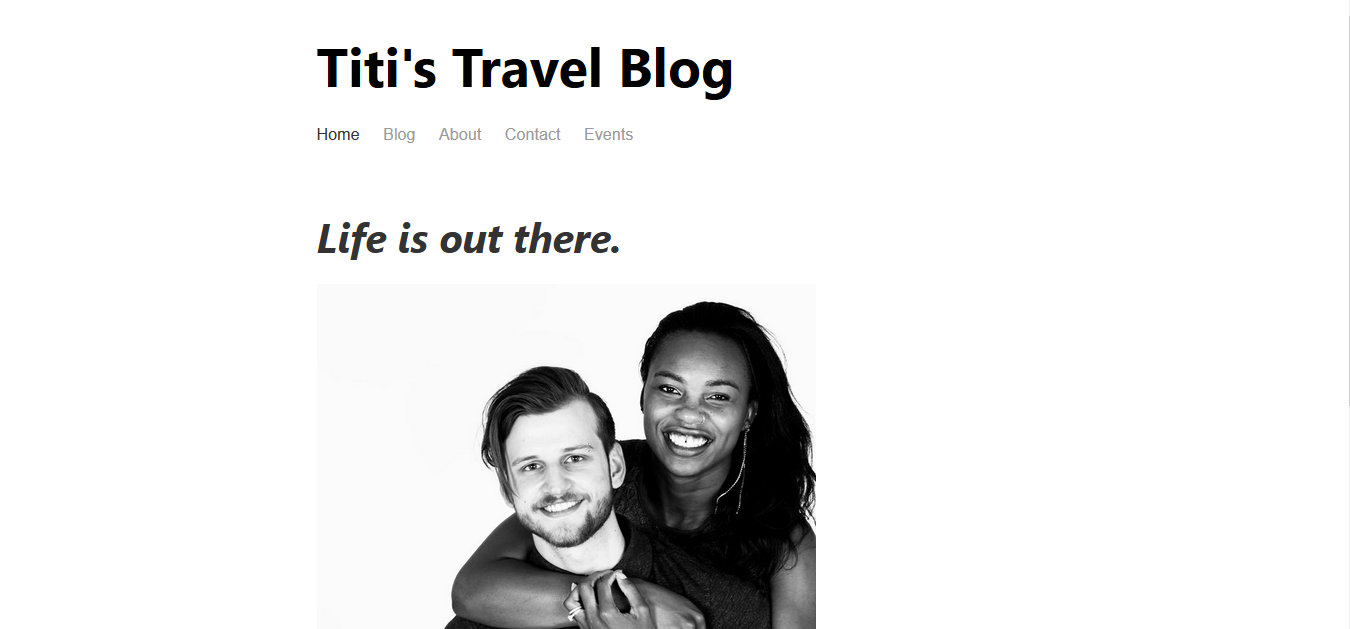
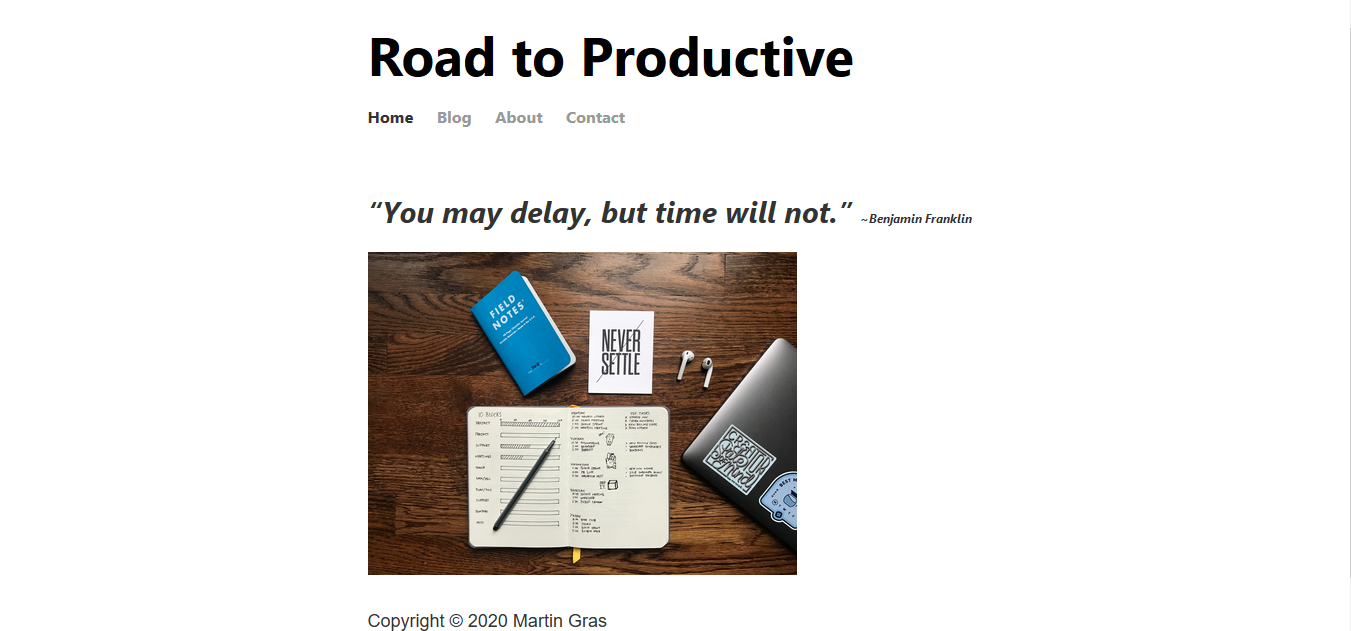
titi blog changed to road to productive blog

diff --git a/index.html b/index.html
@@ -147,7 +147,7 @@
             <div id="project1" class="card project-container hidden">
               <a href="https://tititravelblog.netlify.com/" target="_blank"><img src="./resources/images/titiblog.PNG" class="card-img-top" alt=""></a>
             <div class="card-body">              
-              <h2 class="card-title">Titi's Travel Blog</h2>
+              <h2 class="card-title">Road To Productive Blog</h2>
               <p class="card-text text-muted project-text">REACT & GATSBY.JS + HEADLESS CMS</p>
             </div>
           </div>
